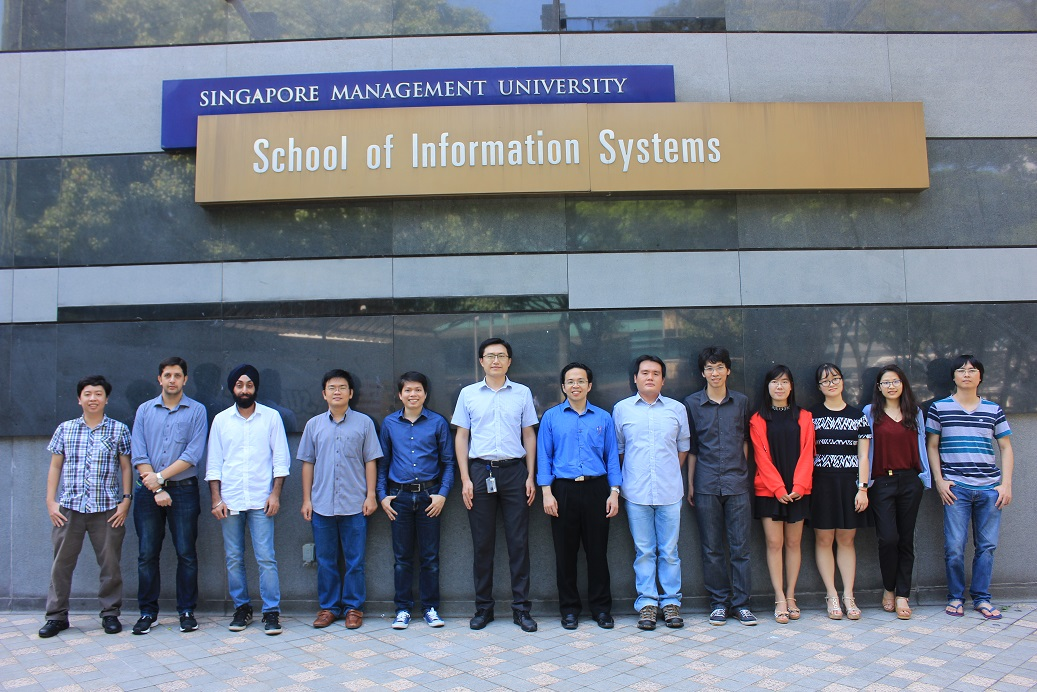
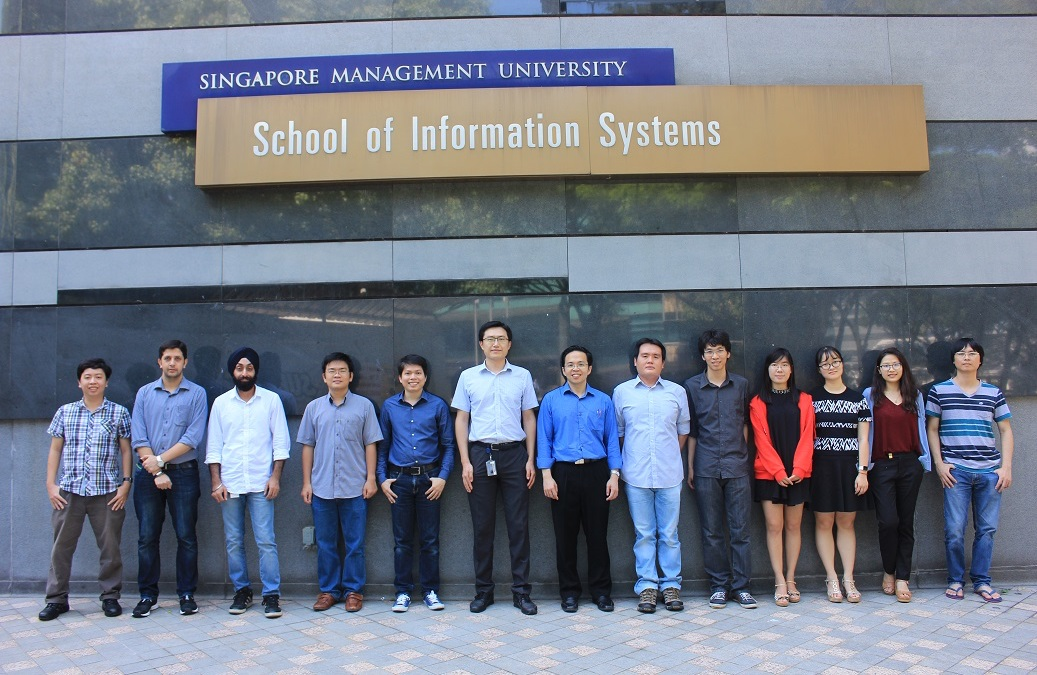
style(photos): rearrange photos

diff --git a/_site/pictures/index.html b/_site/pictures/index.html
@@ -120,7 +120,7 @@
   </div>
 
   <div class="col-sm-6 clearfix">
-    <p><img src="http://localhost:4000/images/picpic/Gallery/DSC07549.jpeg" class="img-responsive" width="95%" style="float: left" />
+    <p><img src="http://localhost:4000/images/picpic/Gallery/SIS.jpg" class="img-responsive" width="95%" style="float: left" />
 <!-- <a>pic1_description</a> --></p>
   </div>
 
@@ -129,12 +129,12 @@
 <div class="row">
 
   <div class="col-sm-6 clearfix">
-    <p><img src="http://localhost:4000/images/picpic/Gallery/DSC07824.jpeg" class="img-responsive" width="95%" style="float: left" />
+    <p><img src="http://localhost:4000/images/picpic/Gallery/Singapore1.jpg" class="img-responsive" width="95%" style="float: left" />
 <!-- <a>pic1_description</a> --></p>
   </div>
 
   <div class="col-sm-6 clearfix">
-    <p><img src="http://localhost:4000/images/picpic/Gallery/DSC07900.jpeg" class="img-responsive" width="95%" style="float: left" />
+    <p><img src="http://localhost:4000/images/picpic/Gallery/Singapore2.webp" class="img-responsive" width="95%" style="float: left" />
 <!-- <a>pic1_description</a> --></p>
   </div>
 
